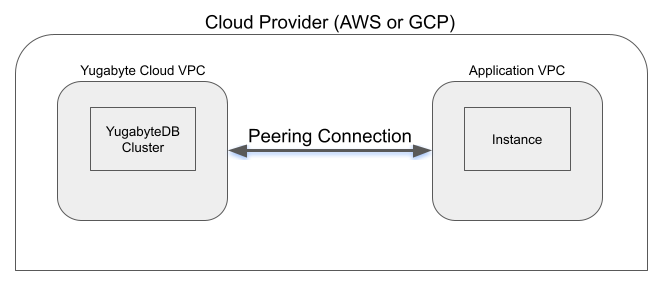
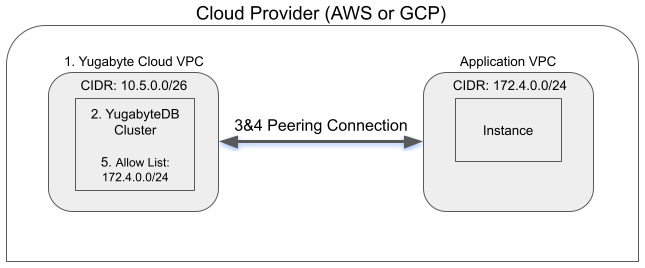
more edits review comments

diff --git a/docs/content/latest/yugabyte-cloud/cloud-vpcs/cloud-vpc-intro.md b/docs/content/latest/yugabyte-cloud/cloud-vpcs/cloud-vpc-intro.md
@@ -6,7 +6,7 @@ description: Requirements and considerations for setting up a VPC network.
 menu:
   latest:
     identifier: cloud-vpc-intro
-    parent: cloud-network
+    parent: cloud-vpcs
     weight: 10
 isTocNested: true
 showAsideToc: true
@@ -17,6 +17,16 @@ A virtual private cloud (VPC) is a virtual network that you can define within a 
 In the context of Yugabyte Cloud, when a Yugabyte cluster is deployed in a VPC, it can connect to an application running on a peered VPC as though it was located on the same network; all traffic stays within the cloud provider's network. The VPCs can be in different regions.
 
 ![Peered VPCs](/images/yb-cloud/cloud-vpc-diagram.png)
+
+Creating a VPC network has the following steps:
+
+1. Create a VPC, reserving a range of IP addresses for the network.
+2. Deploy a cluster in the VPC.
+3. Create a peering connection to establish a connection with the application VPC. The peering connection tells Yugabyte Cloud the location of the application VPC on the cloud provider network.
+4. Configure your cloud provider settings to establish the connection.
+5. Add the application VPC CIDR to the cluster IP allow list, so the application can connect to the cluster.
+
+With the exception of step 4, these steps are performed in Yugabyte Cloud. For detailed steps, refer to [Set up a VPC network](../cloud-vpc-setup).
 
 ## Advantages
 
@@ -51,13 +61,13 @@ You can use the following address ranges (per [RFC 1918](https://datatracker.iet
 - 172.16.0.0      -   172.31.255.255  (172.16/12 prefix)
 - 192.168.0.0     -   192.168.255.255 (192.168/16 prefix)
 
-Addresses cannot overlap with your other VPCs. Yugabyte Cloud warns you when you enter an overlapping range. You can calculate ranges beforehand using [IP Address Guide’s CIDR to IPv4 Conversion calculator](https://www.ipaddressguide.com/cidr).
+Addresses can overlap with other VPCs, but not if they are peered to the same application VPC. Yugabyte Cloud warns you when you enter an overlapping range. You can calculate ranges beforehand using [IP Address Guide’s CIDR to IPv4 Conversion calculator](https://www.ipaddressguide.com/cidr).
 
 Yugabyte Cloud reserves the following ranges for internal operations.
 
 | Provider | Range |
 | --- | --- |
-| AWS | 10.3.0.0.16<br>10.4.0.0.16 |
+| AWS | 10.3.0.0/16<br>10.4.0.0/16 |
 | GCP | 10.21.0.0/16 |
 
 ## Limitations
@@ -65,7 +75,6 @@ Yugabyte Cloud reserves the following ranges for internal operations.
 - You assign a VPC when you create a cluster. You cannot change VPCs after cluster creation.
 - You cannot change the size of your VPC once it is created.
 - You cannot peer VPCs with overlapping ranges with the same application VPC.
-- IP addresses of peered application VPCs must be [added to the IP allow list](../../cloud-basics/add-connections/) of your cluster to be able to connect to the database.
 
 ## Next steps
 

diff --git a/docs/content/latest/yugabyte-cloud/cloud-basics/create-clusters.md b/docs/content/latest/yugabyte-cloud/cloud-basics/create-clusters.md
@@ -24,7 +24,7 @@ To create a cluster, on the **Clusters** page, click **Add Cluster** to start th
 
 Before creating a cluster, create a billing profile and add a payment method. Refer to [Manage your billing profile and payment method](../../cloud-admin/cloud-billing-profile/). You do not need a billing profile to create your free cluster.
 
-If you want to use dedicated VPCs for network isolation and security, you must set up VPC Peering for the cloud provider before you create your cluster. Yugabyte Cloud supports AWC and GCP for peering. Refer to [VPC peering](../../cloud-network/).
+If you want to use dedicated VPCs for network isolation and security, you must set up VPC Peering for the cloud provider before you create your cluster. Yugabyte Cloud supports AWC and GCP for peering. Refer to [VPC networking](../../cloud-vpcs/).
 
 {{< /note >}}
 
@@ -76,7 +76,7 @@ If you are creating a **Paid** cluster, set the following additional options:
   - **Node Level** - a minimum of 3 nodes deployed in a single availability zone with a [replication factor](../../../architecture/docdb-replication/replication/) (RF) of 3. YugabyteDB can continue to do reads and writes even in case of a node failure, but this configuration is not resilient to cloud availability zone outages. For horizontal scaling, you can scale nodes in increments of 1.
   - **Availability Zone Level** - a minimum of 3 nodes spread across multiple availability zones with a RF of 3. YugabyteDB can continue to do reads and writes even in case of a cloud availability zone failure. This configuration provides the maximum protection for a data center failure. Recommended for production deployments. For horizontal scaling, nodes are scaled in increments of 3.
 
-- **Network Access**: If you want to use a VPC for network isolation and security, select **Deploy this cluster in a dedicated VPC**, then select the VPC. Only VPCs using the selected cloud provider are listed. The VPC must be created before deploying the cluster. Refer to [VPC peering](../../cloud-network/).
+- **Network Access**: If you want to use a VPC for network isolation and security, select **Deploy this cluster in a dedicated VPC**, then select the VPC. Only VPCs using the selected cloud provider are listed. The VPC must be created before deploying the cluster. Refer to [VPC networking](../../cloud-vpcs/).
 
 - **Cluster Configuration**:
 

diff --git a/docs/content/latest/yugabyte-cloud/cloud-admin/cloud-billing-costs.md b/docs/content/latest/yugabyte-cloud/cloud-admin/cloud-billing-costs.md
@@ -201,7 +201,7 @@ The free allowance for same region transfers is 1000 GB per month for every 1 vC
 
 ### Cross region
 
-This accounts for all of the traffic coming out of the cluster to a different region. This happens if a client is using [VPC peering](../../cloud-network/) but is in different region than the cluster deployments. Different rate cards apply for clusters deployed in Asia-Pacific (APAC) vs other regions. 
+This accounts for all of the traffic coming out of the cluster to a different region. This happens if a client is using [VPC peering](../../cloud-vpcs/) but is in different region than the cluster deployments. Different rate cards apply for clusters deployed in Asia-Pacific (APAC) vs other regions. 
 
 {{< tip title="Rate card" >}}
 
@@ -229,7 +229,7 @@ The free allowance for data out transfers is 10GB per month for every 1 vCPU per
 
 - Ensure that queries originate from the same cloud region and provider as your database deployment whenever possible.
 
-  - Avoid data out internet costs by using [VPC peering](../../cloud-network/) and not allowing any client applications to connect over the public internet.
+  - Avoid data out internet costs by using [VPC peering](../../cloud-vpcs/) and not allowing any client applications to connect over the public internet.
 
   - Minimize data out cross region costs by making sure your client application and database cluster are deployed in the same cloud and region and connected using VPC Peering.
 

diff --git a/docs/content/latest/yugabyte-cloud/cloud-faq.md b/docs/content/latest/yugabyte-cloud/cloud-faq.md
@@ -186,7 +186,7 @@ psql
 Applications
 : Applications connect to and interact with YugabyteDB using API client libraries, also called client drivers. Before you can connect an application, you need to install the correct driver. Clusters have SSL (encryption in-transit) enabled so make sure your driver details include SSL parameters. For information on available drivers, refer to [Build an application](../../quick-start/build-apps).
 
-: Before you can connect, your application has to be able to reach your Yugabyte Cloud. To add inbound network access from your application environment to Yugabyte Cloud, add the public IP addresses to the [cluster IP access list](../cloud-basics/add-connections), or use [VPC peering](../cloud-network/) to add private IP addresses.
+: Before you can connect, your application has to be able to reach your Yugabyte Cloud. To add inbound network access from your application environment to Yugabyte Cloud, add the public IP addresses to the [cluster IP access list](../cloud-basics/add-connections), or use [VPC peering](../cloud-vpcs/) to add private IP addresses.
 
 For more details, refer to [Connect to clusters](../cloud-basics/connect-to-clusters).
 

diff --git a/docs/content/latest/yugabyte-cloud/cloud-connect/connect-applications.md b/docs/content/latest/yugabyte-cloud/cloud-connect/connect-applications.md
@@ -21,7 +21,7 @@ Clusters have SSL (encryption in-transit) enabled so make sure your driver detai
 
 {{< note title="Note" >}}
 
-Before you can connect, your application has to be able to reach your Yugabyte Cloud cluster. To add inbound network access from your application environment to a cluster, you must add the public IP addresses to the [cluster IP access list](../../cloud-basics/add-connections/). If you are using [VPC peering](../../cloud-network/) you must add the public IP addresses of the application VPC to the cluster IP allow list.
+Before you can connect, your application has to be able to reach your Yugabyte Cloud cluster. To add inbound network access from your application environment to a cluster, you must add the public IP addresses to the [cluster IP access list](../../cloud-basics/add-connections/). If you are using [VPC peering](../../cloud-vpcs/) you must add the public IP addresses of the application VPC to the cluster IP allow list.
 
 {{< /note >}}
 

diff --git a/docs/content/latest/yugabyte-cloud/cloud-basics/add-connections.md b/docs/content/latest/yugabyte-cloud/cloud-basics/add-connections.md
@@ -23,7 +23,7 @@ Add IP allow lists for the following:
 
 - [Connecting from a client shell](../../cloud-connect/connect-client-shell/). Before you can connect to a cluster using ysqlsh, ycqlsh, or psql, you need to add your computer's IP address to the cluster allow list.
 - [Connecting an application](../../cloud-connect/connect-applications/). Add the public IP addresses of the instance running the application.
-- [Connecting a peered application VPC](../../cloud-network/). Add the CIDR of the application VPC.
+- [Connecting a peered application VPC](../../cloud-vpcs/). Add the CIDR of the application VPC.
 
 Each entry can either be a single IP address, a CIDR-notated range of addresses, or a comma-delimited list of addresses.
 

diff --git a/docs/content/latest/yugabyte-cloud/_index.md b/docs/content/latest/yugabyte-cloud/_index.md
@@ -116,7 +116,7 @@ To begin using Yugabyte Cloud, go to [Quick start](cloud-quickstart).
   </div>
 -->
   <div class="col-12 col-md-6 col-lg-12 col-xl-6">
-      <a class="section-link icon-offset" href="cloud-network/">
+      <a class="section-link icon-offset" href="cloud-vpcs/">
           <div class="head">
               <img class="icon" src="/images/section_icons/secure/tls-encryption/connect-to-cluster.png" aria-hidden="true" />
               <div class="title">VPC networking</div>

diff --git a/docs/content/latest/yugabyte-cloud/cloud-vpcs/cloud-add-peering.md b/docs/content/latest/yugabyte-cloud/cloud-vpcs/cloud-add-peering.md
@@ -6,7 +6,7 @@ description: Manage peering connections to your cloud VPCs.
 menu:
   latest:
     identifier: cloud-add-peering
-    parent: cloud-network
+    parent: cloud-vpcs
     weight: 40
 isTocNested: true
 showAsideToc: true

diff --git a/docs/content/latest/yugabyte-cloud/cloud-vpcs/cloud-vpc-setup.md b/docs/content/latest/yugabyte-cloud/cloud-vpcs/cloud-vpc-setup.md
@@ -6,7 +6,7 @@ description: How to set up and VPC network in Yugabyte Cloud.
 menu:
   latest:
     identifier: cloud-vpc-setup
-    parent: cloud-network
+    parent: cloud-vpcs
     weight: 20
 isTocNested: true
 showAsideToc: true

diff --git a/docs/content/latest/yugabyte-cloud/cloud-vpcs/cloud-add-vpc.md b/docs/content/latest/yugabyte-cloud/cloud-vpcs/cloud-add-vpc.md
@@ -6,7 +6,7 @@ description: Manage your cloud VPCs.
 menu:
   latest:
     identifier: cloud-add-vpc
-    parent: cloud-network
+    parent: cloud-vpcs
     weight: 30
 isTocNested: true
 showAsideToc: true

diff --git a/docs/content/latest/yugabyte-cloud/cloud-vpcs/_index.md b/docs/content/latest/yugabyte-cloud/cloud-vpcs/_index.md
@@ -9,7 +9,7 @@ aliases:
   - /latest/yugabyte-cloud/cloud-network/vpc-peers/
 menu:
   latest:
-    identifier: cloud-network
+    identifier: cloud-vpcs
     parent: yugabyte-cloud
     weight: 400
 ---
